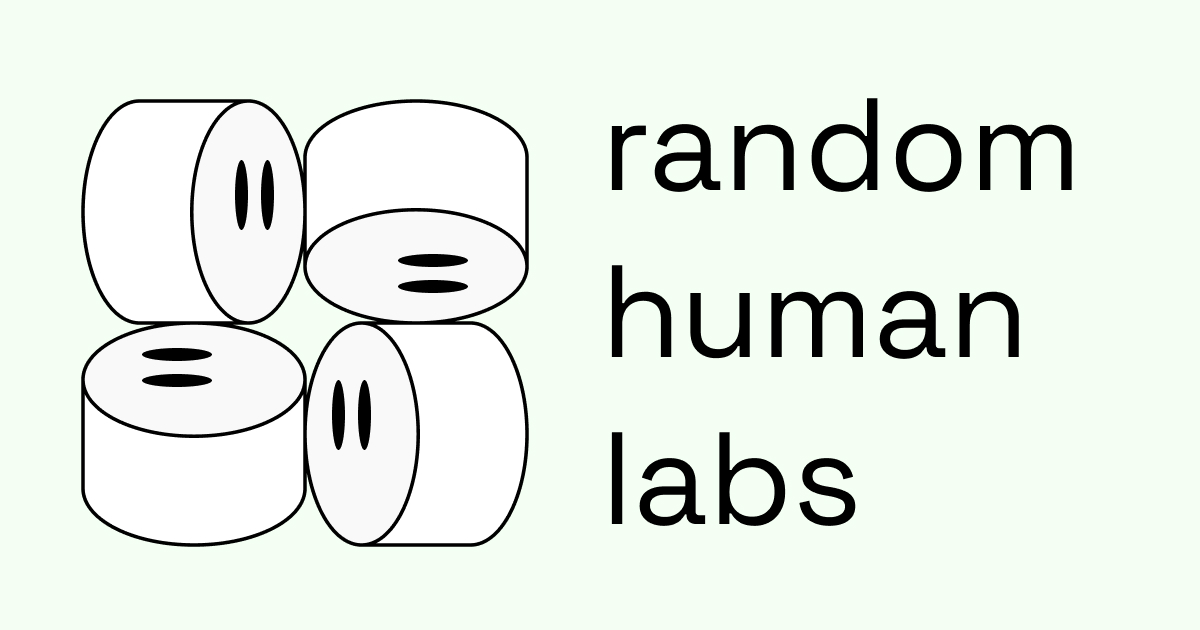
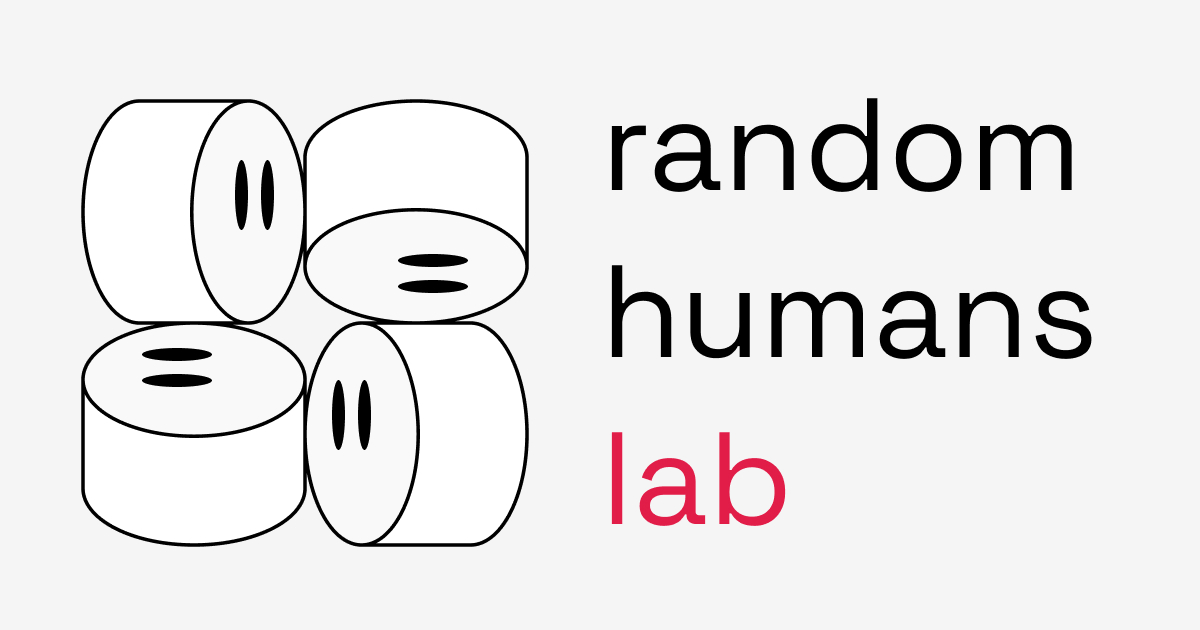
readme update

Changed region(s): [[0.4933, 0.6937, 0.7092, 0.8444], [0.8633, 0.4524, 0.925, 0.573]]

diff --git a/README.md b/README.md
@@ -1,4 +1,4 @@
-# random human labs
+# random humans lab
 
 Let's find the human random seed
 
